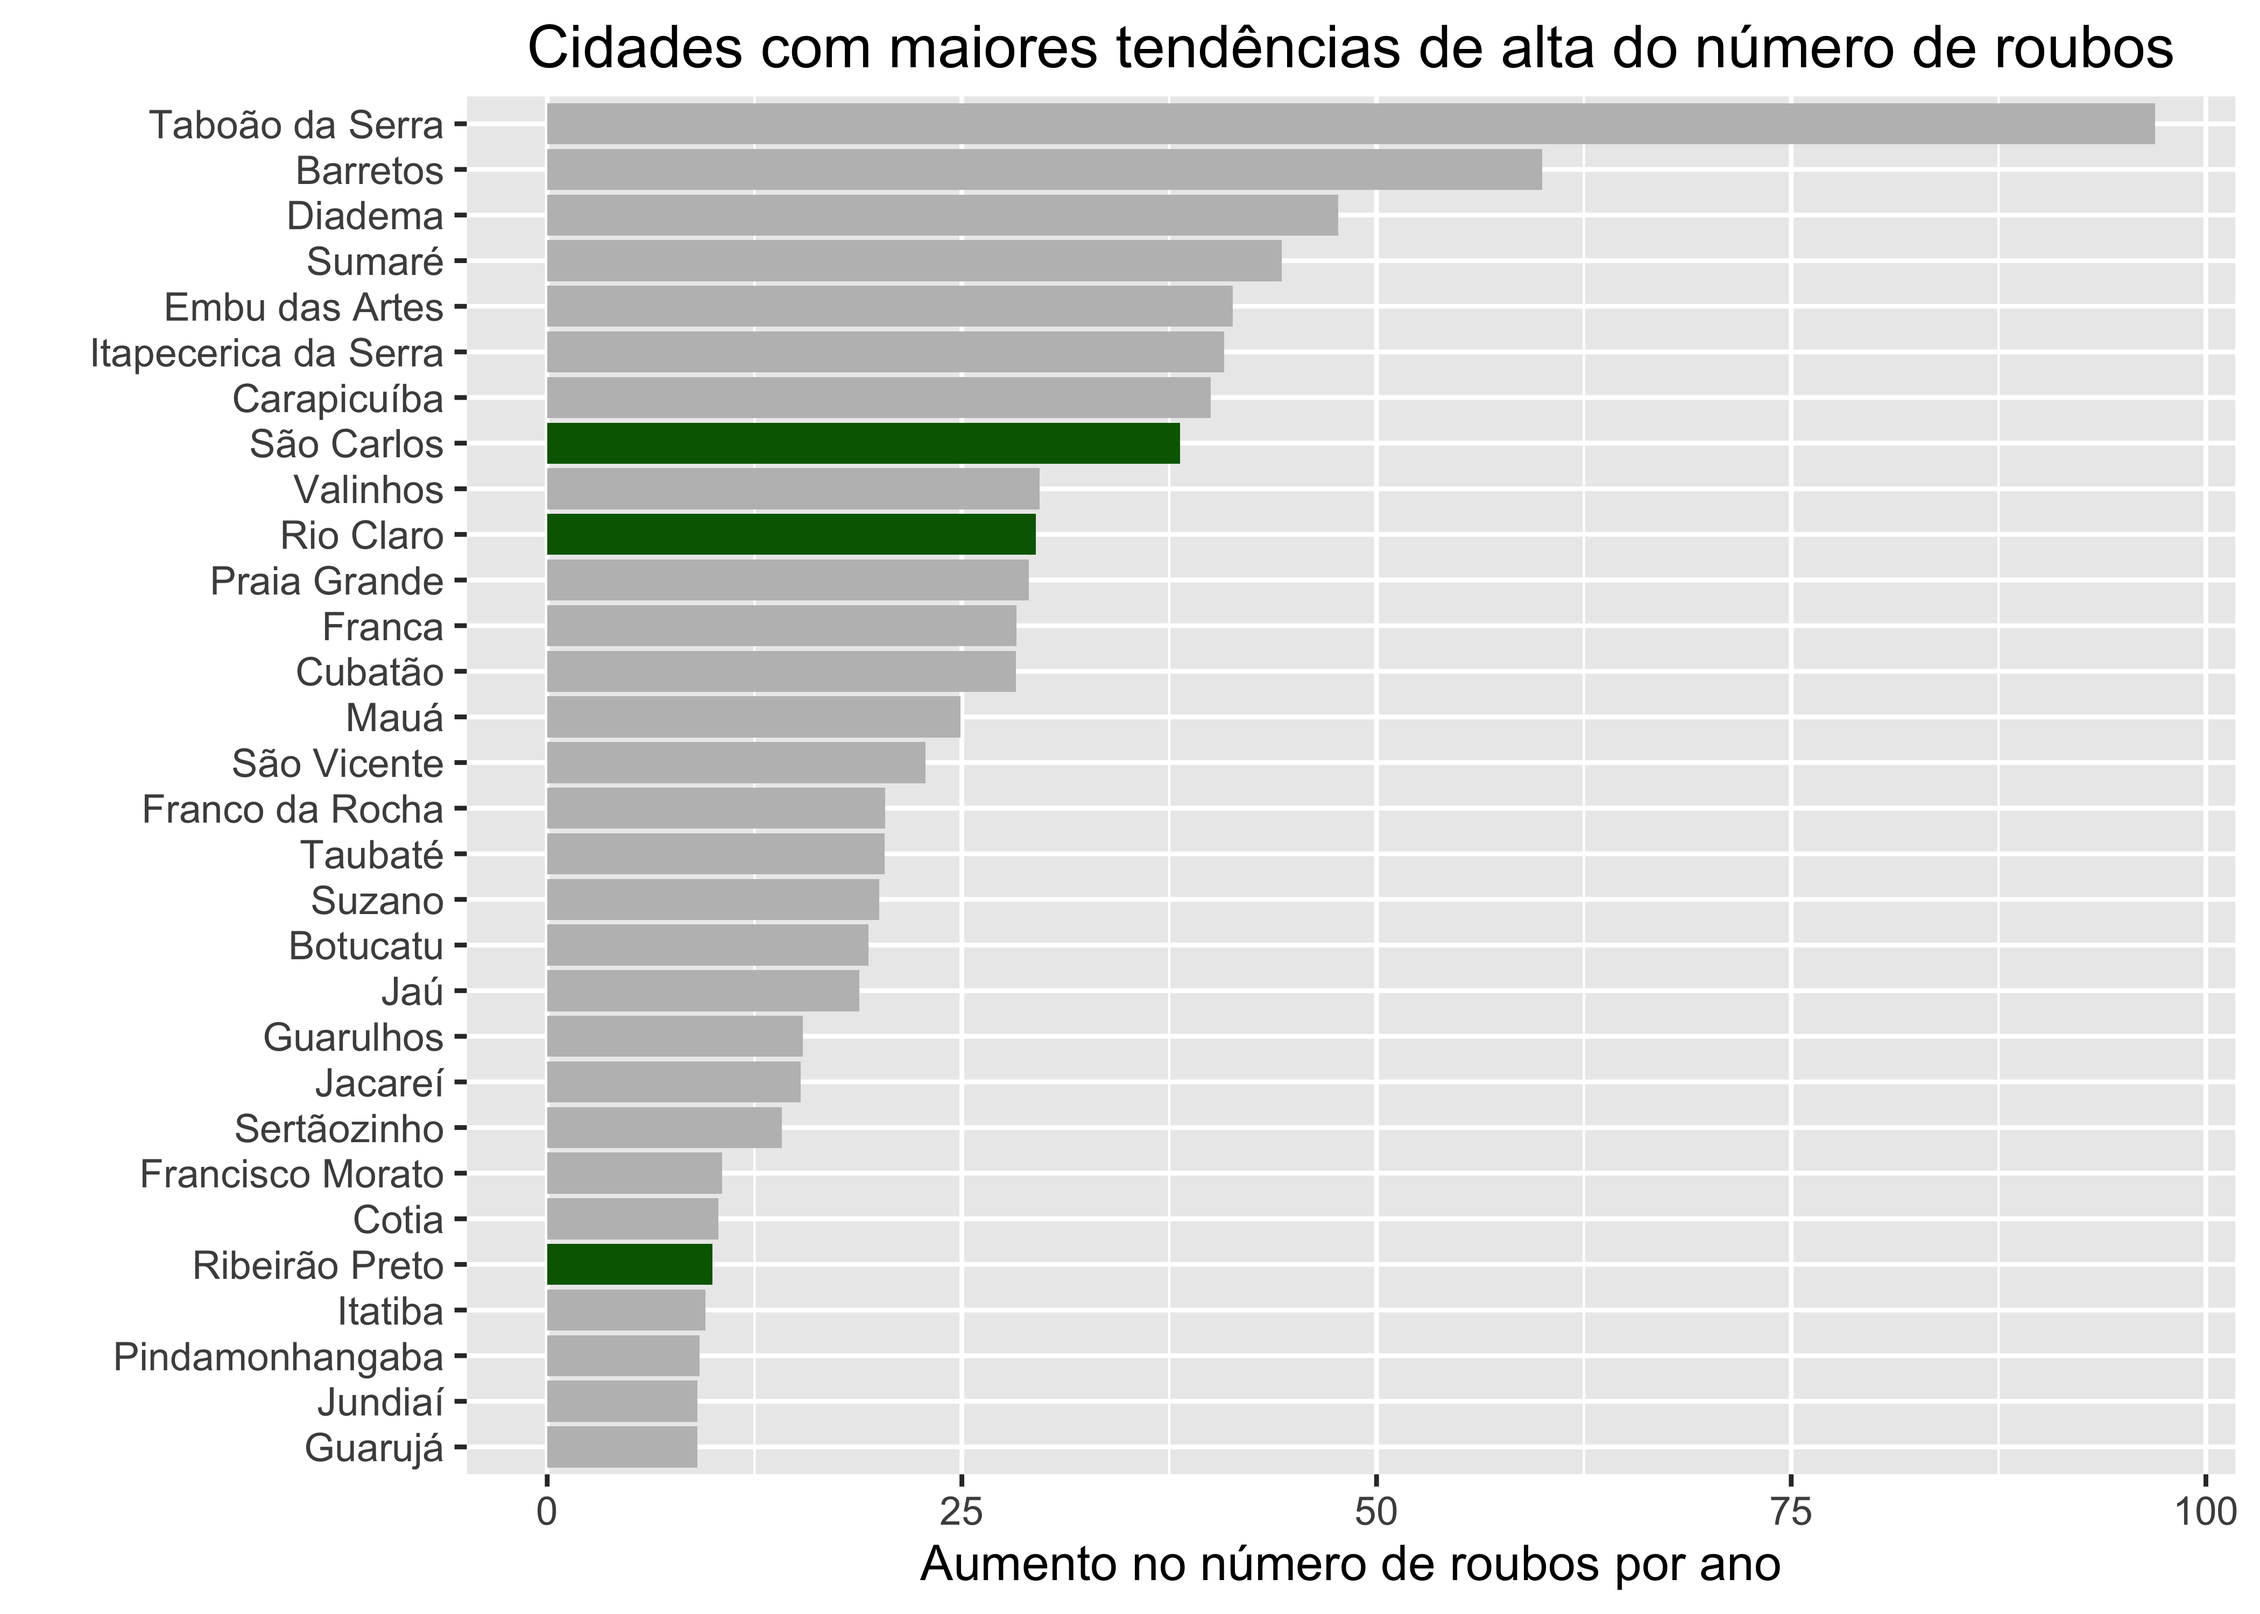
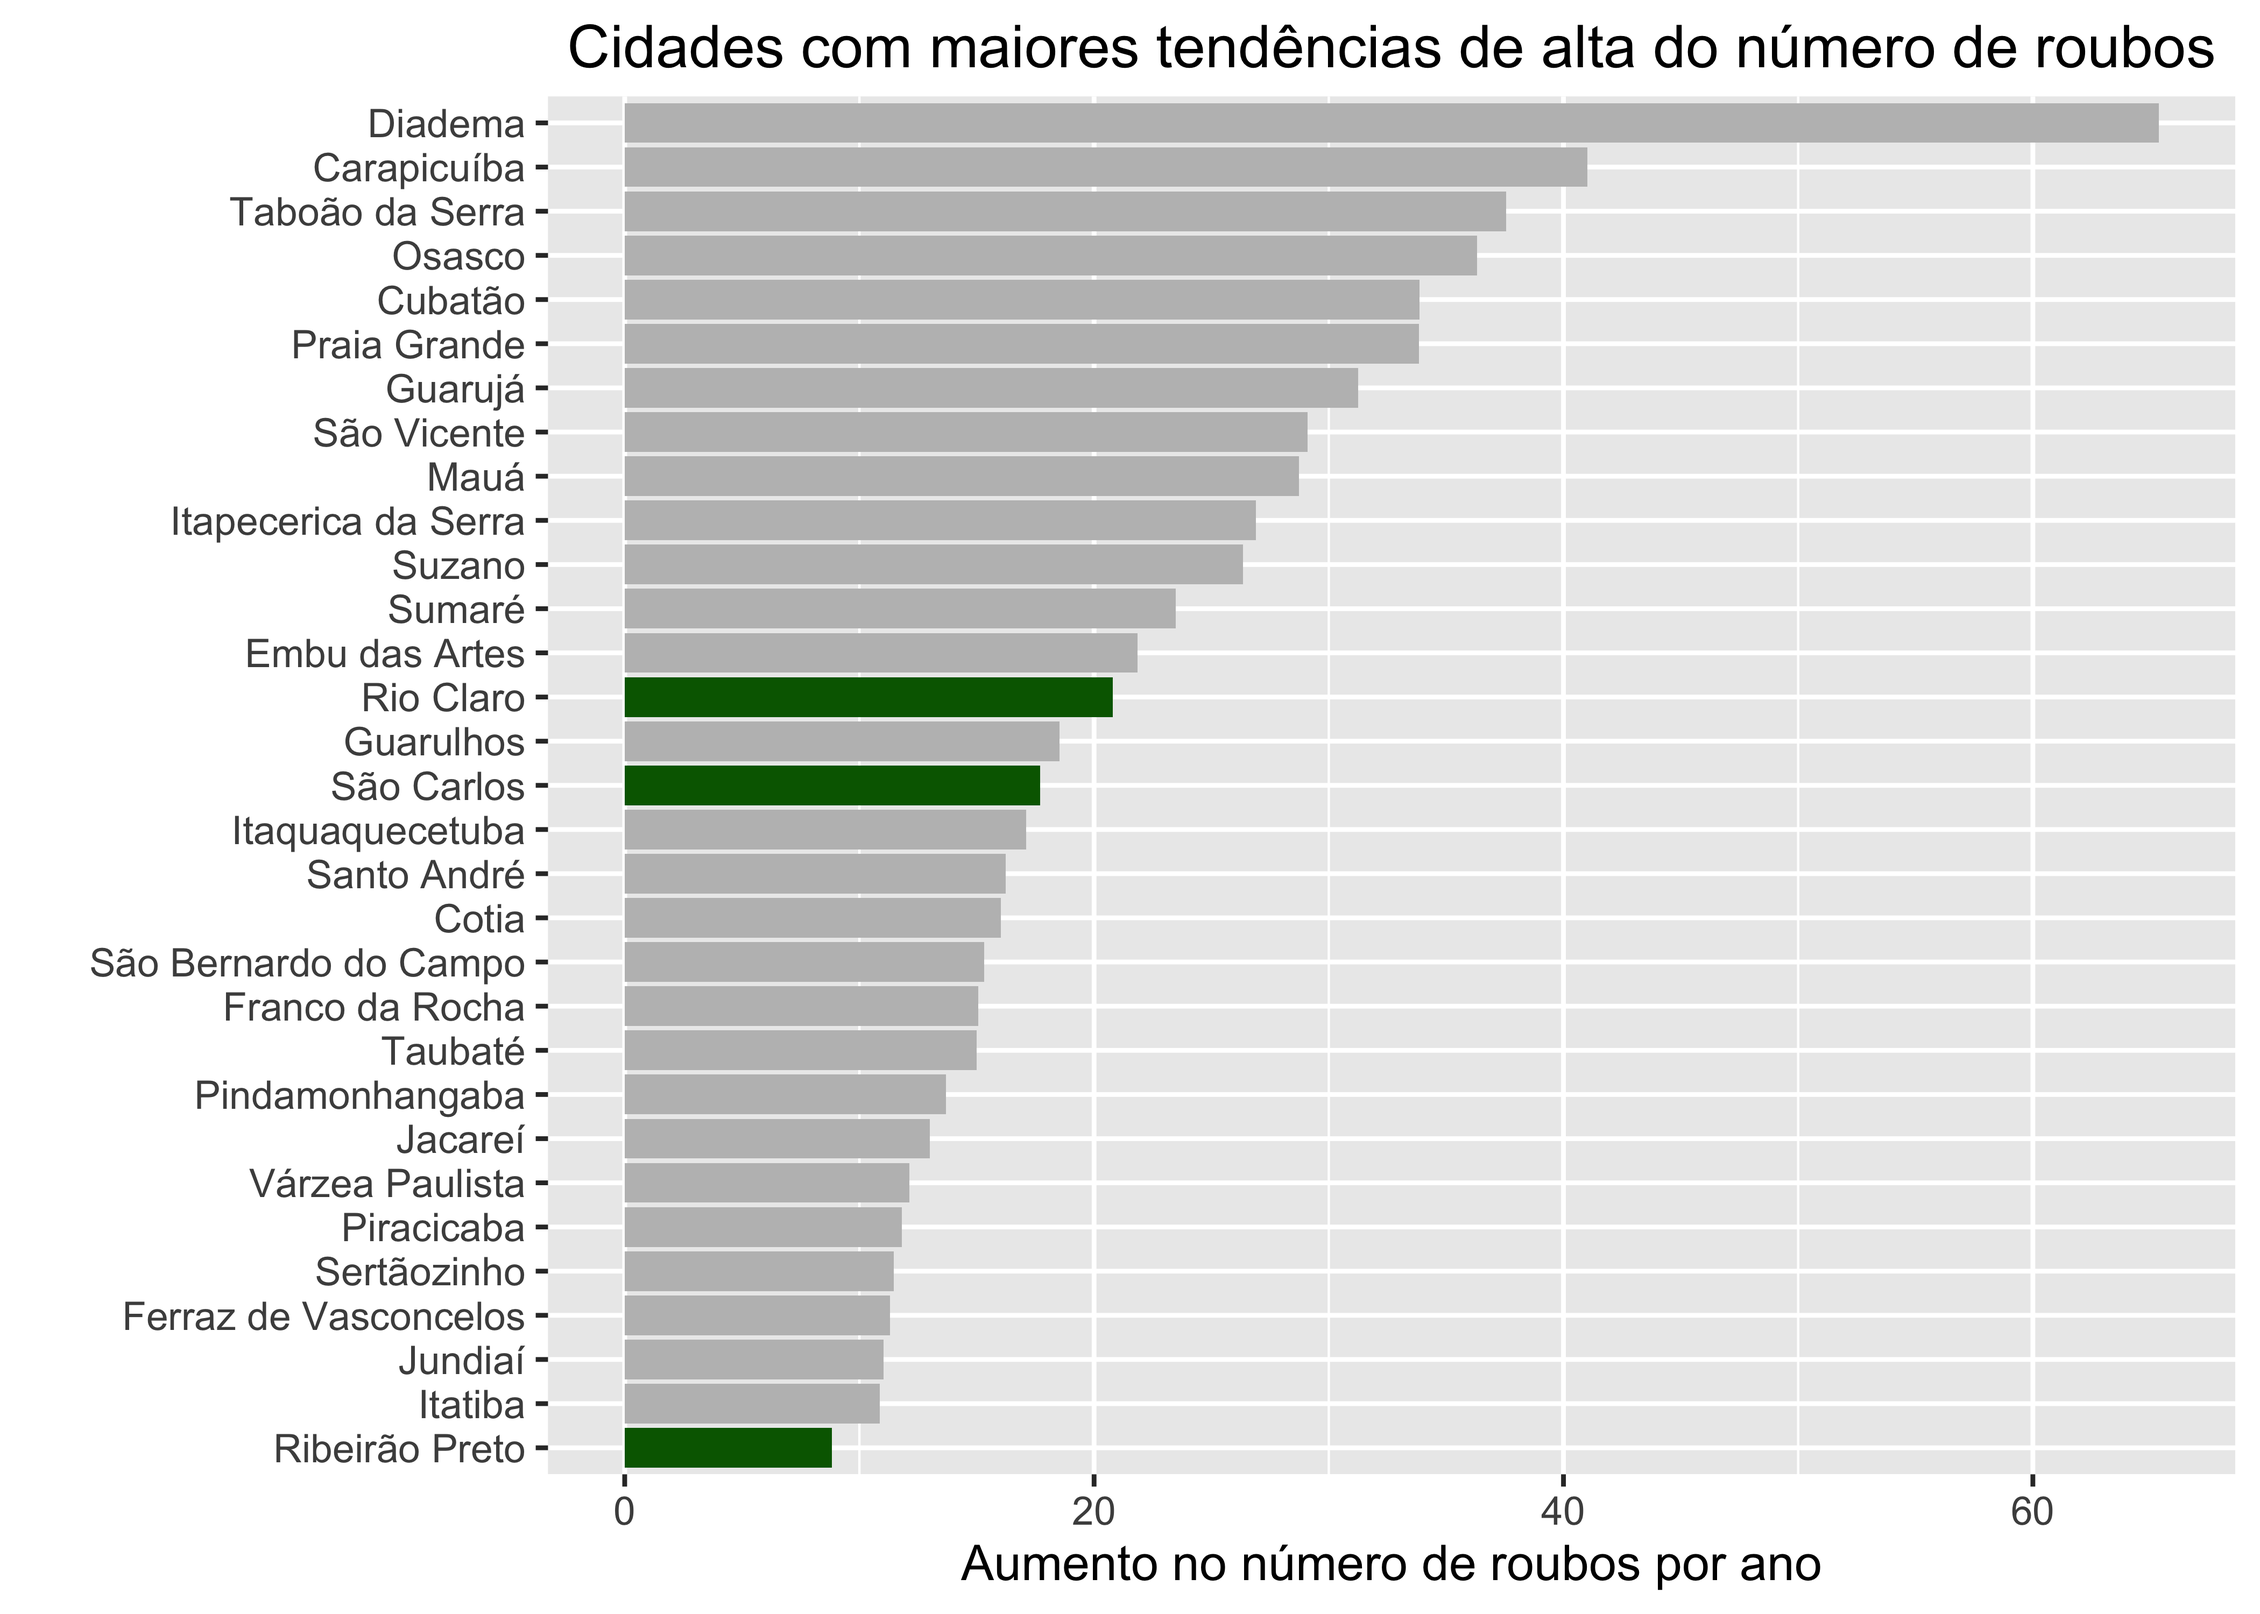
Some analyses were wrong

Changed region(s): [[0.0312, 0.0, 0.9981, 0.93], [0.4055, 0.93, 0.811, 0.992], [0.9669, 0.93, 0.9981, 0.961]]

diff --git a/_R/2016-10-27-Hell_Claro.md b/_R/2016-10-27-Hell_Claro.md
@@ -1,13 +1,3 @@
----
-title: "Hell Claro?"
-author: "Gustavo H Carvalho"
-date: "27/10/2016"
-category: r
-tags: [r, statistics]
-comments: true
-type: posts
----
-
 Rio Claro (SP) tem fama de ser mais violenta que outras cidades da região. Será mesmo? Nessa postagem vou dar uma olhada rápida nos dados da SSP SP. De qualquer forma, em 7 meses morando aqui, já tentaram levar minha bicicleta, explodiram o banco da Unesp, furtaram as panelas do restaurante universitário e por aí vai. A questão é: Rio Claro é mais violenta que outras cidades paulistas do mesmo tamanho?
 
 Para responder a essa pergunta, vou usar os dados de criminalidade da [SSP SP](http://www.ssp.sp.gov.br/novaestatistica/Pesquisa.aspx). Pra variar, não há nenhum serviço facilite a compilação desses dados para todas as cidades. O jeito vai ser arrancar tudo da página deles pelo R. Pacotes:
@@ -181,7 +171,7 @@ municipios %>%
   ggtitle("Furtos por 100 mil habitantes em 2015")
 ```
 
-![](/figs/2016-10-27-Hell_Claro_files/figure-markdown_github/unnamed-chunk-8-1.png)
+![](/fig/2016-10-27-Hell_Claro_files/figure-markdown_github/unnamed-chunk-8-1.png)
 
 O negócio está feio na praia. E quanto aos roubos?
 
@@ -201,7 +191,7 @@ municipios %>%
   ggtitle("Roubos por 100 mil habitantes em 2015")
 ```
 
-![](/figs/2016-10-27-Hell_Claro_files/figure-markdown_github/unnamed-chunk-9-1.png)
+![](/fig/2016-10-27-Hell_Claro_files/figure-markdown_github/unnamed-chunk-9-1.png)
 
 Homicídios?
 
@@ -221,7 +211,7 @@ municipios %>%
   ggtitle("Homicídios por 100 mil habitantes em 2015")
 ```
 
-![](/figs/2016-10-27-Hell_Claro_files/figure-markdown_github/unnamed-chunk-10-1.png)
+![](/fig/2016-10-27-Hell_Claro_files/figure-markdown_github/unnamed-chunk-10-1.png)
 
 Qual a tendência dos crimes em relação à outras cidades de tamanho parecido? Aqui precisei massagear um pouco os dados pra criar uma coluna só com os tipos de crimes e outra com o número de ocorrências:
 
@@ -243,7 +233,7 @@ municipios %>%
   xlab("Ano")
 ```
 
-![](/figs/2016-10-27-Hell_Claro_files/figure-markdown_github/unnamed-chunk-11-1.png)
+![](/fig/2016-10-27-Hell_Claro_files/figure-markdown_github/unnamed-chunk-11-1.png)
 
 Parece que Rio Claro e São Carlos são parecidas entre si e com os outros municípios. Quero saber se o número de roubos em Rio Claro é maior que em São Carlos. Vou assumir que as duas regressões tem a mesma inclinação e rodar a ANCOVA sem a interação:
 
@@ -264,7 +254,7 @@ tidy(mod)
 lista_municipios <- split(municipios, municipios$municipio)
 
 # Regressões
-res_municipios <- do.call("rbind", lapply(lista_municipios, function(x) glance(lm(roubo ~ ano, x))))
+res_municipios <- do.call("rbind", lapply(lista_municipios, function(x) tidy(lm(roubo/pop*100000 ~ ano, x))[2, ]))
 res_municipios$municipio <- rownames(res_municipios)
 res_municipios <- merge(res_municipios, pop_sp)
 ```
@@ -273,12 +263,12 @@ As tendências:
 
 ``` r
 res_municipios %>% 
-  filter(pop > 100000 & p.value < 0.05 & statistic > 0) %>%
+  filter(pop > 100000 & p.value < 0.05 & estimate > 0) %>%
   mutate(bin = ifelse(municipio %in% c("São Carlos", "Rio Claro", "Ribeirão Preto"), 1, 0)) %>%
-  arrange(desc(statistic)) %>%
+  arrange(desc(estimate)) %>%
   filter(row_number() %in% 1:30 | municipio %in% c("São Carlos", "Rio Claro", "Ribeirão Preto")) %>%
-  mutate(municipio = reorder(municipio, statistic)) %>%
-  ggplot(aes(x = municipio, y = statistic, fill = factor(bin))) +
+  mutate(municipio = reorder(municipio, estimate)) %>%
+  ggplot(aes(x = municipio, y = estimate, fill = factor(bin))) +
   geom_bar(stat = "identity") +
   scale_fill_manual(values = c("1" = "darkgreen", "0" = "grey"), guide = FALSE) +
   coord_flip() +
@@ -287,7 +277,7 @@ res_municipios %>%
   ggtitle("Cidades com maiores tendências de alta do número de roubos")
 ```
 
-![](/figs/2016-10-27-Hell_Claro_files/figure-markdown_github/unnamed-chunk-14-1.png)
+![](/fig/2016-10-27-Hell_Claro_files/figure-markdown_github/unnamed-chunk-14-1.png)
 
 Nenhuma cidade apresentou tendência de queda. Quais cidades são parecidas com Rio Claro de maneira geral?
 
@@ -315,7 +305,7 @@ par(mar=c(4,4,3,10))
 plot(as.dendrogram(clust), horiz = TRUE, main = "Municípios com número de habitantes entre 100 e 300 mil")
 ```
 
-![](/figs/2016-10-27-Hell_Claro_files/figure-markdown_github/unnamed-chunk-16-1.png)
+![](/fig/2016-10-27-Hell_Claro_files/figure-markdown_github/unnamed-chunk-16-1.png)
 
 Uma ordenação:
 
@@ -323,9 +313,9 @@ Uma ordenação:
 mun_nmds <- dist_mun %>%
   select(-municipio) %>%
   metaMDS(distance = "euclidean")
-  plot(mun_nmds, type = "t", cex = 0.5)
+plot(mun_nmds, type = "t", cex = 0.5)
 ```
 
-![](/figs/2016-10-27-Hell_Claro_files/figure-markdown_github/unnamed-chunk-17-1.png)
+![](/fig/2016-10-27-Hell_Claro_files/figure-markdown_github/unnamed-chunk-17-1.png)
 
 Barretos parece ter muito mais furtos que os outros municípios de porte parecido. São Caetano do Sul, roubos de veículos. Cidades mais próximas são mais parecidas. Rio Claro parece estar na média. Em uma outra postagem vou mapear os registros de ocorrências em Rio Claro pelos endereços nos BOs.

diff --git a/_posts/2016-10-27-Hell_Claro.md b/_posts/2016-10-27-Hell_Claro.md
@@ -1,13 +1,3 @@
----
-title: "Hell Claro?"
-author: "Gustavo H Carvalho"
-date: "27/10/2016"
-category: r
-tags: [r, statistics]
-comments: true
-type: posts
----
-
 Rio Claro (SP) tem fama de ser mais violenta que outras cidades da região. Será mesmo? Nessa postagem vou dar uma olhada rápida nos dados da SSP SP. De qualquer forma, em 7 meses morando aqui, já tentaram levar minha bicicleta, explodiram o banco da Unesp, furtaram as panelas do restaurante universitário e por aí vai. A questão é: Rio Claro é mais violenta que outras cidades paulistas do mesmo tamanho?
 
 Para responder a essa pergunta, vou usar os dados de criminalidade da [SSP SP](http://www.ssp.sp.gov.br/novaestatistica/Pesquisa.aspx). Pra variar, não há nenhum serviço facilite a compilação desses dados para todas as cidades. O jeito vai ser arrancar tudo da página deles pelo R. Pacotes:
@@ -181,7 +171,7 @@ municipios %>%
   ggtitle("Furtos por 100 mil habitantes em 2015")
 ```
 
-![](/figs/2016-10-27-Hell_Claro_files/figure-markdown_github/unnamed-chunk-8-1.png)
+![](/fig/2016-10-27-Hell_Claro_files/figure-markdown_github/unnamed-chunk-8-1.png)
 
 O negócio está feio na praia. E quanto aos roubos?
 
@@ -201,7 +191,7 @@ municipios %>%
   ggtitle("Roubos por 100 mil habitantes em 2015")
 ```
 
-![](/figs/2016-10-27-Hell_Claro_files/figure-markdown_github/unnamed-chunk-9-1.png)
+![](/fig/2016-10-27-Hell_Claro_files/figure-markdown_github/unnamed-chunk-9-1.png)
 
 Homicídios?
 
@@ -221,7 +211,7 @@ municipios %>%
   ggtitle("Homicídios por 100 mil habitantes em 2015")
 ```
 
-![](/figs/2016-10-27-Hell_Claro_files/figure-markdown_github/unnamed-chunk-10-1.png)
+![](/fig/2016-10-27-Hell_Claro_files/figure-markdown_github/unnamed-chunk-10-1.png)
 
 Qual a tendência dos crimes em relação à outras cidades de tamanho parecido? Aqui precisei massagear um pouco os dados pra criar uma coluna só com os tipos de crimes e outra com o número de ocorrências:
 
@@ -243,7 +233,7 @@ municipios %>%
   xlab("Ano")
 ```
 
-![](/figs/2016-10-27-Hell_Claro_files/figure-markdown_github/unnamed-chunk-11-1.png)
+![](/fig/2016-10-27-Hell_Claro_files/figure-markdown_github/unnamed-chunk-11-1.png)
 
 Parece que Rio Claro e São Carlos são parecidas entre si e com os outros municípios. Quero saber se o número de roubos em Rio Claro é maior que em São Carlos. Vou assumir que as duas regressões tem a mesma inclinação e rodar a ANCOVA sem a interação:
 
@@ -264,7 +254,7 @@ tidy(mod)
 lista_municipios <- split(municipios, municipios$municipio)
 
 # Regressões
-res_municipios <- do.call("rbind", lapply(lista_municipios, function(x) glance(lm(roubo ~ ano, x))))
+res_municipios <- do.call("rbind", lapply(lista_municipios, function(x) tidy(lm(roubo/pop*100000 ~ ano, x))[2, ]))
 res_municipios$municipio <- rownames(res_municipios)
 res_municipios <- merge(res_municipios, pop_sp)
 ```
@@ -273,12 +263,12 @@ As tendências:
 
 ``` r
 res_municipios %>% 
-  filter(pop > 100000 & p.value < 0.05 & statistic > 0) %>%
+  filter(pop > 100000 & p.value < 0.05 & estimate > 0) %>%
   mutate(bin = ifelse(municipio %in% c("São Carlos", "Rio Claro", "Ribeirão Preto"), 1, 0)) %>%
-  arrange(desc(statistic)) %>%
+  arrange(desc(estimate)) %>%
   filter(row_number() %in% 1:30 | municipio %in% c("São Carlos", "Rio Claro", "Ribeirão Preto")) %>%
-  mutate(municipio = reorder(municipio, statistic)) %>%
-  ggplot(aes(x = municipio, y = statistic, fill = factor(bin))) +
+  mutate(municipio = reorder(municipio, estimate)) %>%
+  ggplot(aes(x = municipio, y = estimate, fill = factor(bin))) +
   geom_bar(stat = "identity") +
   scale_fill_manual(values = c("1" = "darkgreen", "0" = "grey"), guide = FALSE) +
   coord_flip() +
@@ -287,7 +277,7 @@ res_municipios %>%
   ggtitle("Cidades com maiores tendências de alta do número de roubos")
 ```
 
-![](/figs/2016-10-27-Hell_Claro_files/figure-markdown_github/unnamed-chunk-14-1.png)
+![](/fig/2016-10-27-Hell_Claro_files/figure-markdown_github/unnamed-chunk-14-1.png)
 
 Nenhuma cidade apresentou tendência de queda. Quais cidades são parecidas com Rio Claro de maneira geral?
 
@@ -315,7 +305,7 @@ par(mar=c(4,4,3,10))
 plot(as.dendrogram(clust), horiz = TRUE, main = "Municípios com número de habitantes entre 100 e 300 mil")
 ```
 
-![](/figs/2016-10-27-Hell_Claro_files/figure-markdown_github/unnamed-chunk-16-1.png)
+![](/fig/2016-10-27-Hell_Claro_files/figure-markdown_github/unnamed-chunk-16-1.png)
 
 Uma ordenação:
 
@@ -323,9 +313,9 @@ Uma ordenação:
 mun_nmds <- dist_mun %>%
   select(-municipio) %>%
   metaMDS(distance = "euclidean")
-  plot(mun_nmds, type = "t", cex = 0.5)
+plot(mun_nmds, type = "t", cex = 0.5)
 ```
 
-![](/figs/2016-10-27-Hell_Claro_files/figure-markdown_github/unnamed-chunk-17-1.png)
+![](/fig/2016-10-27-Hell_Claro_files/figure-markdown_github/unnamed-chunk-17-1.png)
 
 Barretos parece ter muito mais furtos que os outros municípios de porte parecido. São Caetano do Sul, roubos de veículos. Cidades mais próximas são mais parecidas. Rio Claro parece estar na média. Em uma outra postagem vou mapear os registros de ocorrências em Rio Claro pelos endereços nos BOs.
